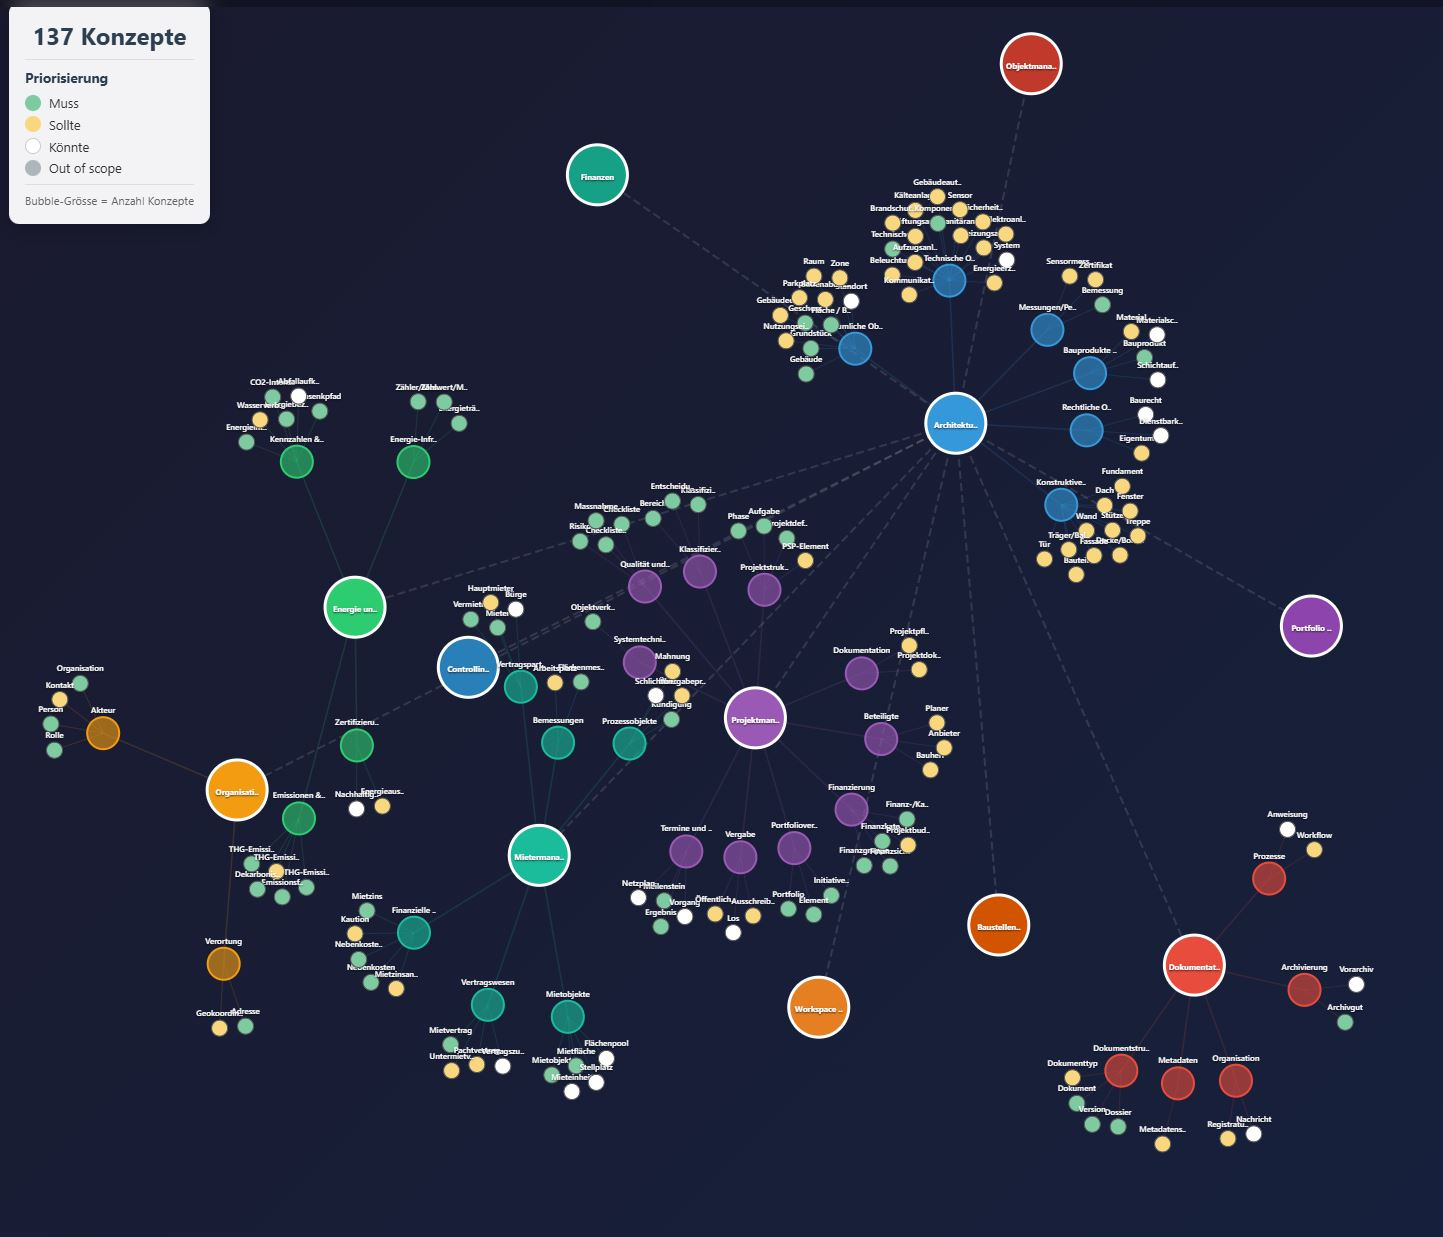
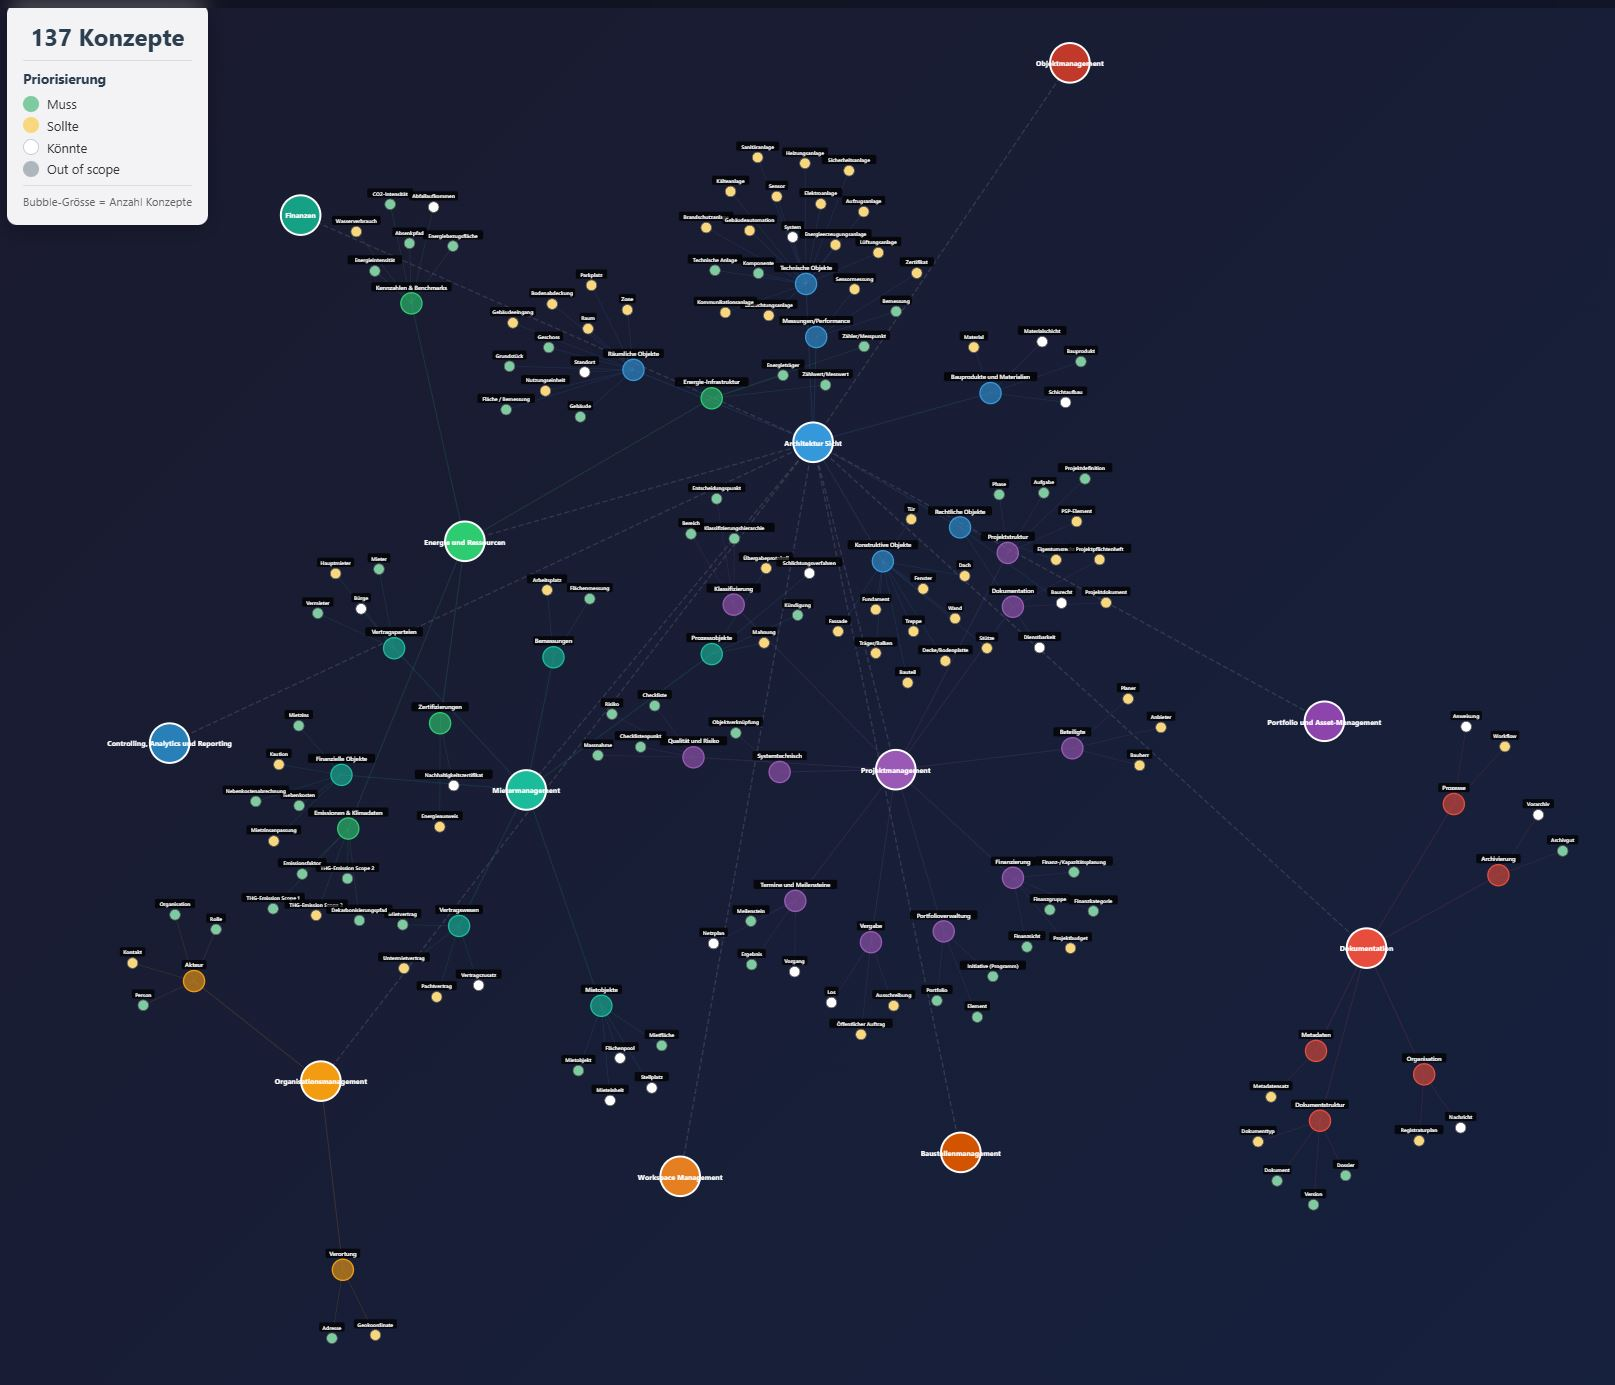
Update

diff --git a/app.js b/app.js
@@ -659,30 +659,30 @@
             return 8;
         }
 
-        // Create force simulation
+        // Create force simulation with more spacing
         graphSimulation = d3.forceSimulation(nodes)
             .force('link', d3.forceLink(links)
                 .id(d => d.id)
                 .distance(d => {
-                    if (d.type === 'domain-domain') return 300;
-                    if (d.type === 'domain-group') return 80;
-                    return 40;
+                    if (d.type === 'domain-domain') return 400;
+                    if (d.type === 'domain-group') return 120;
+                    return 70;
                 })
                 .strength(d => {
-                    if (d.type === 'domain-domain') return 0.05;
-                    if (d.type === 'domain-group') return 0.3;
-                    return 0.5;
+                    if (d.type === 'domain-domain') return 0.03;
+                    if (d.type === 'domain-group') return 0.2;
+                    return 0.4;
                 }))
             .force('charge', d3.forceManyBody()
                 .strength(d => {
-                    if (d.type === 'domain') return -400;
-                    if (d.type === 'group') return -100;
-                    return -30;
+                    if (d.type === 'domain') return -800;
+                    if (d.type === 'group') return -200;
+                    return -80;
                 }))
             .force('center', d3.forceCenter(width / 2, height / 2))
-            .force('collision', d3.forceCollide().radius(d => getNodeRadius(d) + 5))
-            .force('x', d3.forceX(width / 2).strength(0.02))
-            .force('y', d3.forceY(height / 2).strength(0.02));
+            .force('collision', d3.forceCollide().radius(d => getNodeRadius(d) + 25))
+            .force('x', d3.forceX(width / 2).strength(0.01))
+            .force('y', d3.forceY(height / 2).strength(0.01));
 
         // Draw links
         const link = container.append('g')
@@ -731,19 +731,40 @@
             })
             .attr('stroke-width', d => d.type === 'domain' ? 3 : d.type === 'group' ? 2 : 1);
 
+        // Helper to get label text - show full name
+        function getLabelText(d) {
+            return d.name;
+        }
+
+        // Label backgrounds for group and concept nodes
+        node.filter(d => d.type !== 'domain')
+            .append('rect')
+            .attr('class', 'label-bg')
+            .attr('y', d => -getNodeRadius(d) - 16)
+            .attr('height', 14)
+            .attr('rx', 3)
+            .attr('fill', 'rgba(0, 0, 0, 0.75)')
+            .attr('x', function(d) {
+                const text = getLabelText(d);
+                const fontSize = d.type === 'group' ? 9 : 8;
+                const width = text.length * fontSize * 0.55 + 8;
+                return -width / 2;
+            })
+            .attr('width', function(d) {
+                const text = getLabelText(d);
+                const fontSize = d.type === 'group' ? 9 : 8;
+                return text.length * fontSize * 0.55 + 8;
+            });
+
         // Node labels
         node.append('text')
             .attr('class', 'graph-label')
-            .attr('dy', d => d.type === 'domain' ? 5 : -getNodeRadius(d) - 4)
+            .attr('dy', d => d.type === 'domain' ? 5 : -getNodeRadius(d) - 5)
             .attr('text-anchor', 'middle')
-            .attr('fill', d => d.type === 'domain' ? '#fff' : '#fff')
-            .attr('font-size', d => d.type === 'domain' ? '11px' : d.type === 'group' ? '9px' : '7px')
+            .attr('fill', '#fff')
+            .attr('font-size', d => d.type === 'domain' ? '11px' : d.type === 'group' ? '9px' : '8px')
             .attr('font-weight', d => d.type === 'domain' ? 'bold' : '500')
-            .text(d => {
-                const maxLen = d.type === 'domain' ? 12 : d.type === 'group' ? 14 : 12;
-                if (d.name.length > maxLen) return d.name.substring(0, maxLen - 2) + '..';
-                return d.name;
-            });
+            .text(d => getLabelText(d));
 
         // Node interactions
         node.on('mouseenter', function(event, d) {

diff --git a/index.html b/index.html
@@ -65,10 +65,13 @@
         }
 
         .graph-label {
-            font-size: 8px;
             pointer-events: none;
             fill: white;
-            text-shadow: 0 1px 2px rgba(0,0,0,0.8);
+            font-family: 'Segoe UI', Tahoma, Geneva, Verdana, sans-serif;
+        }
+
+        .label-bg {
+            pointer-events: none;
         }
 
         .domain-hull {
